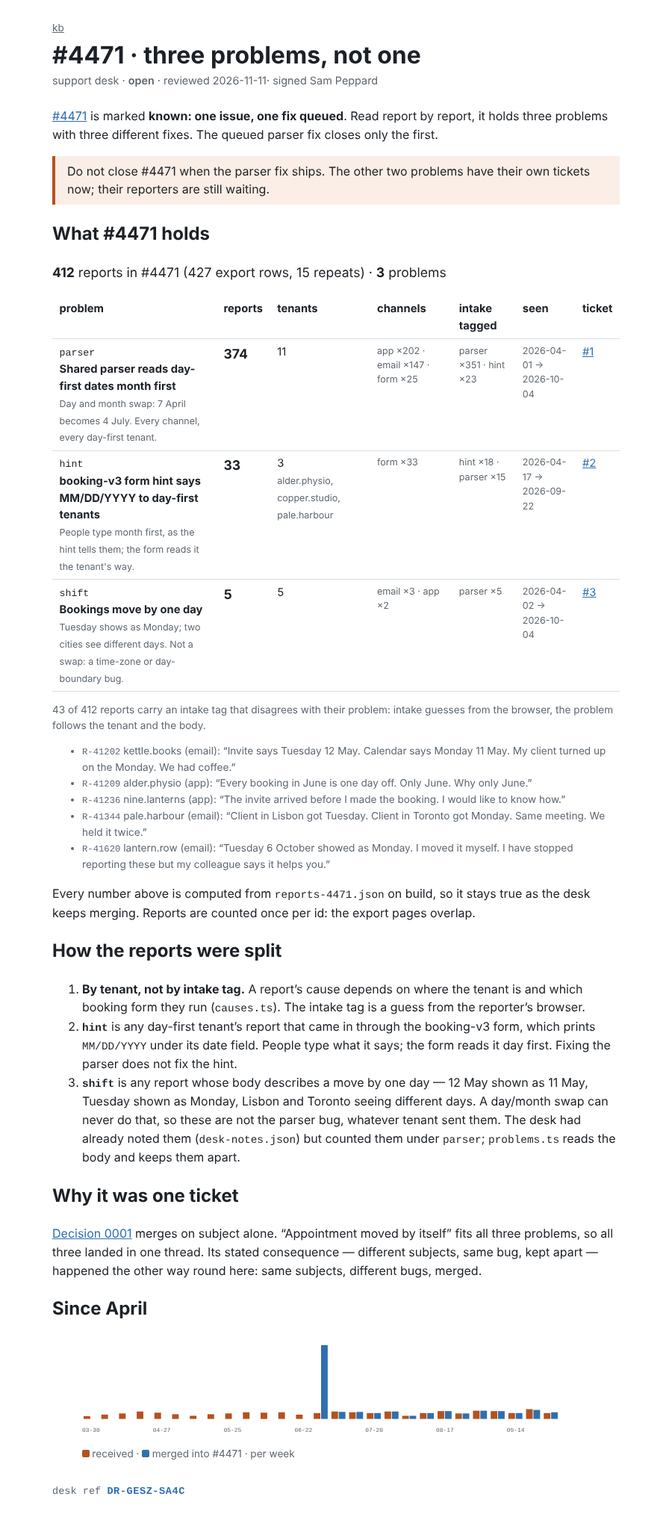
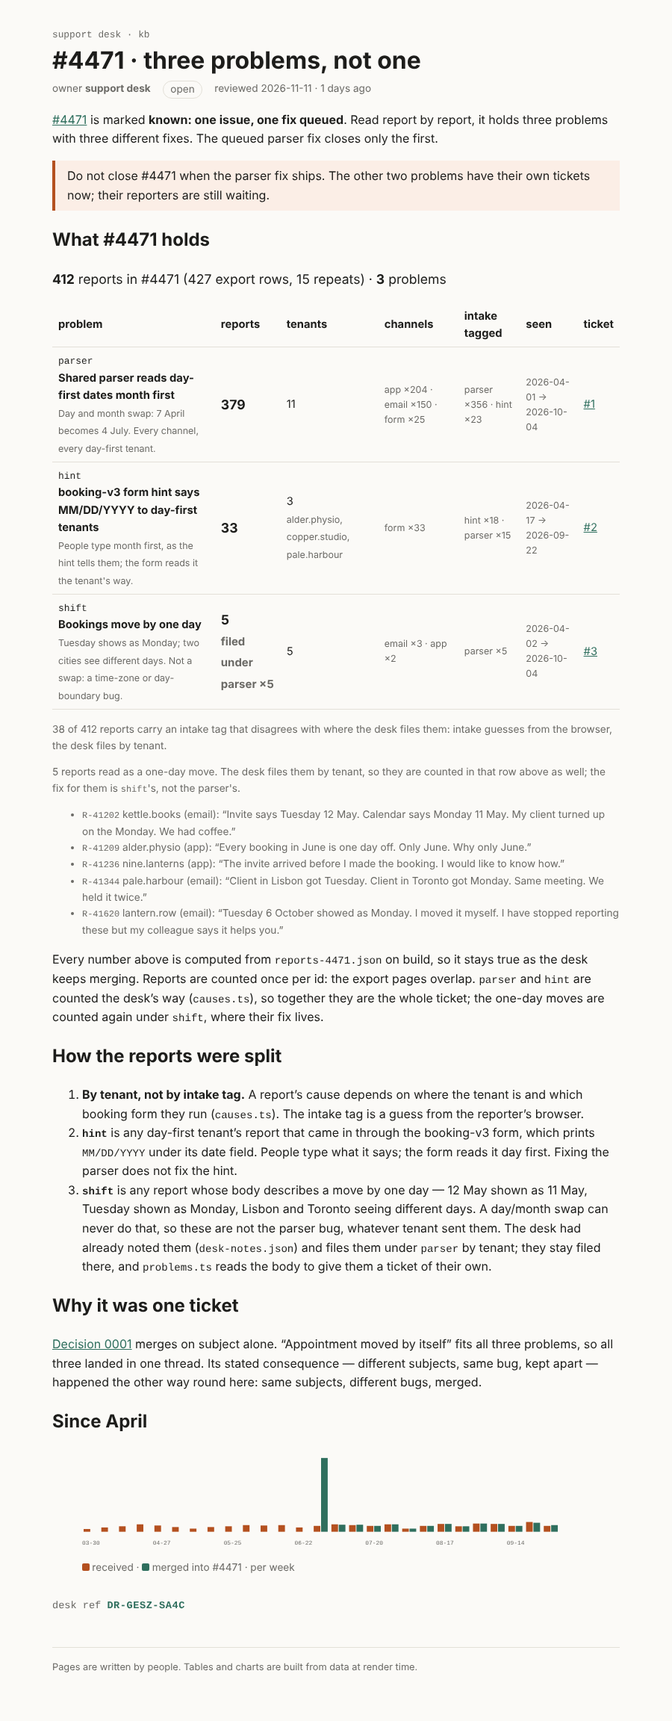
Add files via upload

diff --git a/rendered/4471-what-it-holds.html b/rendered/4471-what-it-holds.html
@@ -1,54 +1,54 @@
 <!doctype html>
 <html lang="en">
-  <head><meta charset="utf-8" /><meta name="viewport" content="width=device-width, initial-scale=1" /><link href="../../../_app/immutable/entry/start.Cax04n6M.js" rel="modulepreload">
-		<link href="../../../_app/immutable/chunks/BXBl7C9G.js" rel="modulepreload">
-		<link href="../../../_app/immutable/chunks/D-Mk7Rcr.js" rel="modulepreload">
-		<link href="../../../_app/immutable/chunks/Bq5J313x.js" rel="modulepreload">
-		<link href="../../../_app/immutable/entry/app.s2e9j_Yr.js" rel="modulepreload">
-		<link href="../../../_app/immutable/chunks/CEV0fquU.js" rel="modulepreload">
-		<link href="../../../_app/immutable/chunks/BctF-SZc.js" rel="modulepreload">
-		<link href="../../../_app/immutable/chunks/D25I4bZb.js" rel="modulepreload">
-		<link href="../../../_app/immutable/chunks/DBFz88Tc.js" rel="modulepreload">
-		<link href="../../../_app/immutable/nodes/0.DcNmDUh-.js" rel="modulepreload">
-		<link href="../../../_app/immutable/chunks/DJu7_s0o.js" rel="modulepreload">
-		<link href="../../../_app/immutable/nodes/6.DSKkRnIV.js" rel="modulepreload">
-		<link href="../../../_app/immutable/chunks/CStkB27h.js" rel="modulepreload">
-		<link href="../../../_app/immutable/chunks/BZH7fcWG.js" rel="modulepreload">
-		<link href="../../../_app/immutable/chunks/8pk1IeRg.js" rel="modulepreload">
-		<link href="../../../_app/immutable/chunks/GB5NitcB.js" rel="modulepreload">
-		<link href="../../../_app/immutable/chunks/C9Poonos.js" rel="modulepreload">
-		<link href="../../../_app/immutable/chunks/CoNGLaqP.js" rel="modulepreload">
-		<!--e2jw2j--><!----><title>#4471 · three problems, not one · kb</title>
-		<link href="../../../_app/immutable/assets/runbook.BaH3PreZ.css" rel="stylesheet">
+  <head><meta charset="utf-8" /><meta name="viewport" content="width=device-width, initial-scale=1" /><link href="../../../_app/immutable/entry/start.C192oWlJ.js" rel="modulepreload">
+		<link href="../../../_app/immutable/chunks/nBu19ThE.js" rel="modulepreload">
+		<link href="../../../_app/immutable/chunks/BxrCcN8S.js" rel="modulepreload">
+		<link href="../../../_app/immutable/chunks/DjVWBcQw.js" rel="modulepreload">
+		<link href="../../../_app/immutable/entry/app.CmhSSG-Q.js" rel="modulepreload">
+		<link href="../../../_app/immutable/chunks/C1HcjfNf.js" rel="modulepreload">
+		<link href="../../../_app/immutable/chunks/2FJHcgdF.js" rel="modulepreload">
+		<link href="../../../_app/immutable/chunks/D0yAg43P.js" rel="modulepreload">
+		<link href="../../../_app/immutable/chunks/B-33DdCK.js" rel="modulepreload">
+		<link href="../../../_app/immutable/nodes/0.DZfr0cuq.js" rel="modulepreload">
+		<link href="../../../_app/immutable/chunks/B0-UQb8m.js" rel="modulepreload">
+		<link href="../../../_app/immutable/nodes/6.DxXm_liZ.js" rel="modulepreload">
+		<link href="../../../_app/immutable/chunks/ypK-M0R9.js" rel="modulepreload">
+		<link href="../../../_app/immutable/chunks/sXBaN47e.js" rel="modulepreload">
+		<link href="../../../_app/immutable/chunks/C9XHIrrk.js" rel="modulepreload">
+		<link href="../../../_app/immutable/chunks/BZg23eEk.js" rel="modulepreload">
+		<link href="../../../_app/immutable/chunks/BOtbrOVq.js" rel="modulepreload">
+		<link href="../../../_app/immutable/chunks/BCMCTd07.js" rel="modulepreload">
+		<!--e2jw2j--><!----><title>#4471 · three problems, not one · support kb</title>
+		<link href="../../../_app/immutable/assets/runbook.BhhgOc_n.css" rel="stylesheet">
 		<link href="../../../_app/immutable/assets/Callout.yLErXQDM.css" rel="stylesheet">
 		<link href="../../../_app/immutable/assets/QueueTimeline.GlFZa8QJ.css" rel="stylesheet">
 		<link href="../../../_app/immutable/assets/6.CLi-qPBJ.css" rel="stylesheet"></head>
-  <body data-sveltekit-preload-data="hover"><div style="display: contents"><!--[--><!--[0--><!--[--><!--[--><main class="svelte-e2jw2j"><nav class="svelte-e2jw2j"><a href="/kb/" class="svelte-e2jw2j">kb</a></nav> <header><h1 class="svelte-e2jw2j">#4471 · three problems, not one</h1> <p class="meta svelte-e2jw2j">support desk · <span class="status svelte-e2jw2j">open</span> · reviewed 2026-11-11<!--[0-->· signed Sam Peppard<!--]--></p></header> <p><a href="/kb/incidents/4471">#4471</a> is marked <strong>known: one issue, one fix queued</strong>. Read report by report,
+  <body data-sveltekit-preload-data="hover"><div style="display: contents"><!--[--><!--[0--><!--[--><!--[--><div class="kb svelte-e2jw2j"><header><a class="crumb svelte-e2jw2j" href="/kb">support desk · kb</a> <h1 class="svelte-e2jw2j">#4471 · three problems, not one</h1> <p class="meta svelte-e2jw2j"><span>owner <b>support desk</b></span> <span class="status open svelte-e2jw2j">open</span> <span class="svelte-e2jw2j">reviewed 2026-11-11 · 1 days ago</span></p></header> <!--[-1--><!--]--> <main><p><a href="/kb/incidents/4471">#4471</a> is marked <strong>known: one issue, one fix queued</strong>. Read report by report,
 it holds three problems with three different fixes. The queued parser fix closes only the first.</p> <aside class="warn svelte-17bri61"><!---->Do not close #4471 when the parser fix ships. The other two problems have their own tickets now;
-their reporters are still waiting.<!----></aside><!----> <h2>What #4471 holds</h2> <p class="sum svelte-1op6c6"><strong>412</strong> reports in #4471 (427 export rows, 15 repeats) · <strong>3</strong> problems</p> <table><thead><tr><th>problem</th><th>reports</th><th>tenants</th><th>channels</th><th>intake tagged</th><th>seen</th><th>ticket</th></tr></thead><tbody><!--[--><tr><td><code>parser</code><br/><b>Shared parser reads day-first dates month first</b><br/><span class="what svelte-1op6c6">Day and month swap: 7 April becomes 4 July. Every channel, every day-first tenant.</span></td><td class="n svelte-1op6c6">374</td><td>11<br/><span class="what svelte-1op6c6"></span></td><td class="what svelte-1op6c6">app ×202 · email ×147 · form ×25</td><td class="what svelte-1op6c6">parser ×351 · hint ×23</td><td class="what svelte-1op6c6">2026-04-01 → 2026-10-04</td><td><!--[0--><a href="https://github.com/sampeppard/mega-s01e03-kb/issues/1">#1</a><!--]--></td></tr><tr><td><code>hint</code><br/><b>booking-v3 form hint says MM/DD/YYYY to day-first tenants</b><br/><span class="what svelte-1op6c6">People type month first, as the hint tells them; the form reads it the tenant's way.</span></td><td class="n svelte-1op6c6">33</td><td>3<br/><span class="what svelte-1op6c6">alder.physio, copper.studio, pale.harbour</span></td><td class="what svelte-1op6c6">form ×33</td><td class="what svelte-1op6c6">hint ×18 · parser ×15</td><td class="what svelte-1op6c6">2026-04-17 → 2026-09-22</td><td><!--[0--><a href="https://github.com/sampeppard/mega-s01e03-kb/issues/2">#2</a><!--]--></td></tr><tr><td><code>shift</code><br/><b>Bookings move by one day</b><br/><span class="what svelte-1op6c6">Tuesday shows as Monday; two cities see different days. Not a swap: a time-zone or day-boundary bug.</span></td><td class="n svelte-1op6c6">5</td><td>5<br/><span class="what svelte-1op6c6"></span></td><td class="what svelte-1op6c6">email ×3 · app ×2</td><td class="what svelte-1op6c6">parser ×5</td><td class="what svelte-1op6c6">2026-04-02 → 2026-10-04</td><td><!--[0--><a href="https://github.com/sampeppard/mega-s01e03-kb/issues/3">#3</a><!--]--></td></tr><!--]--></tbody></table> <p class="note svelte-1op6c6">43 of 412 reports carry an intake tag that disagrees with their problem: intake guesses from the browser, the problem follows the tenant and the body.</p> <!--[--><ul class="ids svelte-1op6c6"><!--[--><li><code>R-41202</code> kettle.books (email): “Invite says Tuesday 12 May. Calendar says Monday 11 May. My client turned up on the Monday. We had coffee.”</li><li><code>R-41209</code> alder.physio (app): “Every booking in June is one day off. Only June. Why only June.”</li><li><code>R-41236</code> nine.lanterns (app): “The invite arrived before I made the booking. I would like to know how.”</li><li><code>R-41344</code> pale.harbour (email): “Client in Lisbon got Tuesday. Client in Toronto got Monday. Same meeting. We held it twice.”</li><li><code>R-41620</code> lantern.row (email): “Tuesday 6 October showed as Monday. I moved it myself. I have stopped reporting these but my colleague says it helps you.”</li><!--]--></ul><!--]--><!----> <p>Every number above is computed from <code>reports-4471.json</code> on build, so it stays true as the desk
-keeps merging. Reports are counted once per id: the export pages overlap.</p> <h2>How the reports were split</h2> <ol><li><strong>By tenant, not by intake tag.</strong> A report’s cause depends on where the tenant is and which
+their reporters are still waiting.<!----></aside><!----> <h2>What #4471 holds</h2> <p class="sum svelte-1op6c6"><strong>412</strong> reports in #4471 (427 export rows, 15 repeats) · <strong>3</strong> problems</p> <table><thead><tr><th>problem</th><th>reports</th><th>tenants</th><th>channels</th><th>intake tagged</th><th>seen</th><th>ticket</th></tr></thead><tbody><!--[--><tr><td><code>parser</code><br/><b>Shared parser reads day-first dates month first</b><br/><span class="what svelte-1op6c6">Day and month swap: 7 April becomes 4 July. Every channel, every day-first tenant.</span></td><td class="n svelte-1op6c6">379<!--[-1--><!--]--></td><td>11<br/><span class="what svelte-1op6c6"></span></td><td class="what svelte-1op6c6">app ×204 · email ×150 · form ×25</td><td class="what svelte-1op6c6">parser ×356 · hint ×23</td><td class="what svelte-1op6c6">2026-04-01 → 2026-10-04</td><td><!--[0--><a href="https://github.com/sampeppard/mega-s01e03-kb/issues/1">#1</a><!--]--></td></tr><tr><td><code>hint</code><br/><b>booking-v3 form hint says MM/DD/YYYY to day-first tenants</b><br/><span class="what svelte-1op6c6">People type month first, as the hint tells them; the form reads it the tenant's way.</span></td><td class="n svelte-1op6c6">33<!--[-1--><!--]--></td><td>3<br/><span class="what svelte-1op6c6">alder.physio, copper.studio, pale.harbour</span></td><td class="what svelte-1op6c6">form ×33</td><td class="what svelte-1op6c6">hint ×18 · parser ×15</td><td class="what svelte-1op6c6">2026-04-17 → 2026-09-22</td><td><!--[0--><a href="https://github.com/sampeppard/mega-s01e03-kb/issues/2">#2</a><!--]--></td></tr><tr><td><code>shift</code><br/><b>Bookings move by one day</b><br/><span class="what svelte-1op6c6">Tuesday shows as Monday; two cities see different days. Not a swap: a time-zone or day-boundary bug.</span></td><td class="n svelte-1op6c6">5<!--[0--><br/><span class="what svelte-1op6c6">filed under parser ×5</span><!--]--></td><td>5<br/><span class="what svelte-1op6c6"></span></td><td class="what svelte-1op6c6">email ×3 · app ×2</td><td class="what svelte-1op6c6">parser ×5</td><td class="what svelte-1op6c6">2026-04-02 → 2026-10-04</td><td><!--[0--><a href="https://github.com/sampeppard/mega-s01e03-kb/issues/3">#3</a><!--]--></td></tr><!--]--></tbody></table> <p class="note svelte-1op6c6">38 of 412 reports carry an intake tag that disagrees with where the desk files them: intake guesses from the browser, the desk files by tenant.</p> <!--[--><p class="note svelte-1op6c6">5 reports read as a one-day move. The desk files them by tenant, so they are counted in that row above as well; the fix for them is <code>shift</code>'s, not the parser's.</p> <ul class="ids svelte-1op6c6"><!--[--><li><code>R-41202</code> kettle.books (email): “Invite says Tuesday 12 May. Calendar says Monday 11 May. My client turned up on the Monday. We had coffee.”</li><li><code>R-41209</code> alder.physio (app): “Every booking in June is one day off. Only June. Why only June.”</li><li><code>R-41236</code> nine.lanterns (app): “The invite arrived before I made the booking. I would like to know how.”</li><li><code>R-41344</code> pale.harbour (email): “Client in Lisbon got Tuesday. Client in Toronto got Monday. Same meeting. We held it twice.”</li><li><code>R-41620</code> lantern.row (email): “Tuesday 6 October showed as Monday. I moved it myself. I have stopped reporting these but my colleague says it helps you.”</li><!--]--></ul><!--]--><!----> <p>Every number above is computed from <code>reports-4471.json</code> on build, so it stays true as the desk
+keeps merging. Reports are counted once per id: the export pages overlap. <code>parser</code> and <code>hint</code> are counted the desk’s way (<code>causes.ts</code>), so together they are the whole ticket; the one-day moves
+are counted again under <code>shift</code>, where their fix lives.</p> <h2>How the reports were split</h2> <ol><li><strong>By tenant, not by intake tag.</strong> A report’s cause depends on where the tenant is and which
 booking form they run (<code>causes.ts</code>). The intake tag is a guess from the reporter’s browser.</li> <li><strong><code>hint</code></strong> is any day-first tenant’s report that came in through the booking-v3 form, which
 prints <code>MM/DD/YYYY</code> under its date field. People type what it says; the form reads it day first.
 Fixing the parser does not fix the hint.</li> <li><strong><code>shift</code></strong> is any report whose body describes a move by one day — 12 May shown as 11 May,
 Tuesday shown as Monday, Lisbon and Toronto seeing different days. A day/month swap can never do
 that, so these are not the parser bug, whatever tenant sent them. The desk had already noted
-them (<code>desk-notes.json</code>) but counted them under <code>parser</code>; <code>problems.ts</code> reads the body and
-keeps them apart.</li></ol> <h2>Why it was one ticket</h2> <p><a href="/kb/decisions/0001-dedupe-by-subject">Decision 0001</a> merges on subject alone. “Appointment moved
+them (<code>desk-notes.json</code>) and files them under <code>parser</code> by tenant; they stay filed there, and <code>problems.ts</code> reads the body to give them a ticket of their own.</li></ol> <h2>Why it was one ticket</h2> <p><a href="/kb/decisions/0001-dedupe-by-subject">Decision 0001</a> merges on subject alone. “Appointment moved
 by itself” fits all three problems, so all three landed in one thread. Its stated consequence —
 different subjects, same bug, kept apart — happened the other way round here: same subjects,
-different bugs, merged.</p> <h2>Since April</h2> <figure><svg viewBox="0 0 648 140" role="img" aria-label="reports received and merged into #4471, per week" class="svelte-18a6qal"><!--[--><rect class="in svelte-18a6qal" x="2" y="106.29629629629629" width="9" height="3.7037037037037033"></rect><rect class="merged svelte-18a6qal" x="12" y="110" width="9" height="0"></rect><!--[0--><text x="12" y="128" class="svelte-18a6qal">03-30</text><!--]--><rect class="in svelte-18a6qal" x="26" y="104.17989417989418" width="9" height="5.82010582010582"></rect><rect class="merged svelte-18a6qal" x="36" y="110" width="9" height="0"></rect><!--[-1--><!--]--><rect class="in svelte-18a6qal" x="50" y="102.5925925925926" width="9" height="7.4074074074074066"></rect><rect class="merged svelte-18a6qal" x="60" y="110" width="9" height="0"></rect><!--[-1--><!--]--><rect class="in svelte-18a6qal" x="74" y="99.94708994708995" width="9" height="10.052910052910052"></rect><rect class="merged svelte-18a6qal" x="84" y="110" width="9" height="0"></rect><!--[-1--><!--]--><rect class="in svelte-18a6qal" x="98" y="101.53439153439153" width="9" height="8.465608465608465"></rect><rect class="merged svelte-18a6qal" x="108" y="110" width="9" height="0"></rect><!--[0--><text x="108" y="128" class="svelte-18a6qal">04-27</text><!--]--><rect class="in svelte-18a6qal" x="122" y="103.65079365079364" width="9" height="6.349206349206349"></rect><rect class="merged svelte-18a6qal" x="132" y="110" width="9" height="0"></rect><!--[-1--><!--]--><rect class="in svelte-18a6qal" x="146" y="105.76719576719577" width="9" height="4.232804232804233"></rect><rect class="merged svelte-18a6qal" x="156" y="110" width="9" height="0"></rect><!--[-1--><!--]--><rect class="in svelte-18a6qal" x="170" y="103.65079365079364" width="9" height="6.349206349206349"></rect><rect class="merged svelte-18a6qal" x="180" y="110" width="9" height="0"></rect><!--[-1--><!--]--><rect class="in svelte-18a6qal" x="194" y="102.5925925925926" width="9" height="7.4074074074074066"></rect><rect class="merged svelte-18a6qal" x="204" y="110" width="9" height="0"></rect><!--[0--><text x="204" y="128" class="svelte-18a6qal">05-25</text><!--]--><rect class="in svelte-18a6qal" x="218" y="101.00529100529101" width="9" height="8.994708994708994"></rect><rect class="merged svelte-18a6qal" x="228" y="110" width="9" height="0"></rect><!--[-1--><!--]--><rect class="in svelte-18a6qal" x="242" y="101.53439153439153" width="9" height="8.465608465608465"></rect><rect class="merged svelte-18a6qal" x="252" y="110" width="9" height="0"></rect><!--[-1--><!--]--><rect class="in svelte-18a6qal" x="266" y="101.00529100529101" width="9" height="8.994708994708994"></rect><rect class="merged svelte-18a6qal" x="276" y="110" width="9" height="0"></rect><!--[-1--><!--]--><rect class="in svelte-18a6qal" x="290" y="104.17989417989418" width="9" height="5.82010582010582"></rect><rect class="merged svelte-18a6qal" x="300" y="110" width="9" height="0"></rect><!--[0--><text x="300" y="128" class="svelte-18a6qal">06-22</text><!--]--><rect class="in svelte-18a6qal" x="314" y="102.06349206349206" width="9" height="7.936507936507936"></rect><rect class="merged svelte-18a6qal" x="324" y="10" width="9" height="100"></rect><!--[-1--><!--]--><rect class="in svelte-18a6qal" x="338" y="99.94708994708995" width="9" height="10.052910052910052"></rect><rect class="merged svelte-18a6qal" x="348" y="100.47619047619048" width="9" height="9.523809523809524"></rect><!--[-1--><!--]--><rect class="in svelte-18a6qal" x="362" y="101.00529100529101" width="9" height="8.994708994708994"></rect><rect class="merged svelte-18a6qal" x="372" y="100.47619047619048" width="9" height="9.523809523809524"></rect><!--[-1--><!--]--><rect class="in svelte-18a6qal" x="386" y="102.06349206349206" width="9" height="7.936507936507936"></rect><rect class="merged svelte-18a6qal" x="396" y="102.06349206349206" width="9" height="7.936507936507936"></rect><!--[0--><text x="396" y="128" class="svelte-18a6qal">07-20</text><!--]--><rect class="in svelte-18a6qal" x="410" y="99.94708994708995" width="9" height="10.052910052910052"></rect><rect class="merged svelte-18a6qal" x="420" y="99.94708994708995" width="9" height="10.052910052910052"></rect><!--[-1--><!--]--><rect class="in svelte-18a6qal" x="434" y="105.76719576719577" width="9" height="4.232804232804233"></rect><rect class="merged svelte-18a6qal" x="444" y="105.76719576719577" width="9" height="4.232804232804233"></rect><!--[-1--><!--]--><rect class="in svelte-18a6qal" x="458" y="102.06349206349206" width="9" height="7.936507936507936"></rect><rect class="merged svelte-18a6qal" x="468" y="102.06349206349206" width="9" height="7.936507936507936"></rect><!--[-1--><!--]--><rect class="in svelte-18a6qal" x="482" y="99.41798941798942" width="9" height="10.582010582010582"></rect><rect class="merged svelte-18a6qal" x="492" y="99.41798941798942" width="9" height="10.582010582010582"></rect><!--[0--><text x="492" y="128" class="svelte-18a6qal">08-17</text><!--]--><rect class="in svelte-18a6qal" x="506" y="102.5925925925926" width="9" height="7.4074074074074066"></rect><rect class="merged svelte-18a6qal" x="516" y="102.5925925925926" width="9" height="7.4074074074074066"></rect><!--[-1--><!--]--><rect class="in svelte-18a6qal" x="530" y="98.88888888888889" width="9" height="11.11111111111111"></rect><rect class="merged svelte-18a6qal" x="540" y="98.88888888888889" width="9" height="11.11111111111111"></rect><!--[-1--><!--]--><rect class="in svelte-18a6qal" x="554" y="99.41798941798942" width="9" height="10.582010582010582"></rect><rect class="merged svelte-18a6qal" x="564" y="99.41798941798942" width="9" height="10.582010582010582"></rect><!--[-1--><!--]--><rect class="in svelte-18a6qal" x="578" y="102.06349206349206" width="9" height="7.936507936507936"></rect><rect class="merged svelte-18a6qal" x="588" y="102.06349206349206" width="9" height="7.936507936507936"></rect><!--[0--><text x="588" y="128" class="svelte-18a6qal">09-14</text><!--]--><rect class="in svelte-18a6qal" x="602" y="96.77248677248677" width="9" height="13.227513227513226"></rect><rect class="merged svelte-18a6qal" x="612" y="97.83068783068784" width="9" height="12.16931216931217"></rect><!--[-1--><!--]--><rect class="in svelte-18a6qal" x="626" y="102.06349206349206" width="9" height="7.936507936507936"></rect><rect class="merged svelte-18a6qal" x="636" y="101.00529100529101" width="9" height="8.994708994708994"></rect><!--[-1--><!--]--><!--]--></svg> <figcaption class="svelte-18a6qal"><span class="key in svelte-18a6qal"></span> received · <span class="key merged svelte-18a6qal"></span> merged into #4471 · per week</figcaption></figure><!----> <!--[0--><p class="stamp svelte-1280m42">desk ref <b class="svelte-1280m42">DR-GESZ-SA4C</b></p><!--]--><!----><!----></main><!--]--><!----><!--]--><!--]--> <!--[-1--><!--]--><!--]-->
+different bugs, merged.</p> <h2>Since April</h2> <figure><svg viewBox="0 0 648 140" role="img" aria-label="reports received and merged into #4471, per week" class="svelte-18a6qal"><!--[--><rect class="in svelte-18a6qal" x="2" y="106.29629629629629" width="9" height="3.7037037037037033"></rect><rect class="merged svelte-18a6qal" x="12" y="110" width="9" height="0"></rect><!--[0--><text x="12" y="128" class="svelte-18a6qal">03-30</text><!--]--><rect class="in svelte-18a6qal" x="26" y="104.17989417989418" width="9" height="5.82010582010582"></rect><rect class="merged svelte-18a6qal" x="36" y="110" width="9" height="0"></rect><!--[-1--><!--]--><rect class="in svelte-18a6qal" x="50" y="102.5925925925926" width="9" height="7.4074074074074066"></rect><rect class="merged svelte-18a6qal" x="60" y="110" width="9" height="0"></rect><!--[-1--><!--]--><rect class="in svelte-18a6qal" x="74" y="99.94708994708995" width="9" height="10.052910052910052"></rect><rect class="merged svelte-18a6qal" x="84" y="110" width="9" height="0"></rect><!--[-1--><!--]--><rect class="in svelte-18a6qal" x="98" y="101.53439153439153" width="9" height="8.465608465608465"></rect><rect class="merged svelte-18a6qal" x="108" y="110" width="9" height="0"></rect><!--[0--><text x="108" y="128" class="svelte-18a6qal">04-27</text><!--]--><rect class="in svelte-18a6qal" x="122" y="103.65079365079364" width="9" height="6.349206349206349"></rect><rect class="merged svelte-18a6qal" x="132" y="110" width="9" height="0"></rect><!--[-1--><!--]--><rect class="in svelte-18a6qal" x="146" y="105.76719576719577" width="9" height="4.232804232804233"></rect><rect class="merged svelte-18a6qal" x="156" y="110" width="9" height="0"></rect><!--[-1--><!--]--><rect class="in svelte-18a6qal" x="170" y="103.65079365079364" width="9" height="6.349206349206349"></rect><rect class="merged svelte-18a6qal" x="180" y="110" width="9" height="0"></rect><!--[-1--><!--]--><rect class="in svelte-18a6qal" x="194" y="102.5925925925926" width="9" height="7.4074074074074066"></rect><rect class="merged svelte-18a6qal" x="204" y="110" width="9" height="0"></rect><!--[0--><text x="204" y="128" class="svelte-18a6qal">05-25</text><!--]--><rect class="in svelte-18a6qal" x="218" y="101.00529100529101" width="9" height="8.994708994708994"></rect><rect class="merged svelte-18a6qal" x="228" y="110" width="9" height="0"></rect><!--[-1--><!--]--><rect class="in svelte-18a6qal" x="242" y="101.53439153439153" width="9" height="8.465608465608465"></rect><rect class="merged svelte-18a6qal" x="252" y="110" width="9" height="0"></rect><!--[-1--><!--]--><rect class="in svelte-18a6qal" x="266" y="101.00529100529101" width="9" height="8.994708994708994"></rect><rect class="merged svelte-18a6qal" x="276" y="110" width="9" height="0"></rect><!--[-1--><!--]--><rect class="in svelte-18a6qal" x="290" y="104.17989417989418" width="9" height="5.82010582010582"></rect><rect class="merged svelte-18a6qal" x="300" y="110" width="9" height="0"></rect><!--[0--><text x="300" y="128" class="svelte-18a6qal">06-22</text><!--]--><rect class="in svelte-18a6qal" x="314" y="102.06349206349206" width="9" height="7.936507936507936"></rect><rect class="merged svelte-18a6qal" x="324" y="10" width="9" height="100"></rect><!--[-1--><!--]--><rect class="in svelte-18a6qal" x="338" y="99.94708994708995" width="9" height="10.052910052910052"></rect><rect class="merged svelte-18a6qal" x="348" y="100.47619047619048" width="9" height="9.523809523809524"></rect><!--[-1--><!--]--><rect class="in svelte-18a6qal" x="362" y="101.00529100529101" width="9" height="8.994708994708994"></rect><rect class="merged svelte-18a6qal" x="372" y="100.47619047619048" width="9" height="9.523809523809524"></rect><!--[-1--><!--]--><rect class="in svelte-18a6qal" x="386" y="102.06349206349206" width="9" height="7.936507936507936"></rect><rect class="merged svelte-18a6qal" x="396" y="102.06349206349206" width="9" height="7.936507936507936"></rect><!--[0--><text x="396" y="128" class="svelte-18a6qal">07-20</text><!--]--><rect class="in svelte-18a6qal" x="410" y="99.94708994708995" width="9" height="10.052910052910052"></rect><rect class="merged svelte-18a6qal" x="420" y="99.94708994708995" width="9" height="10.052910052910052"></rect><!--[-1--><!--]--><rect class="in svelte-18a6qal" x="434" y="105.76719576719577" width="9" height="4.232804232804233"></rect><rect class="merged svelte-18a6qal" x="444" y="105.76719576719577" width="9" height="4.232804232804233"></rect><!--[-1--><!--]--><rect class="in svelte-18a6qal" x="458" y="102.06349206349206" width="9" height="7.936507936507936"></rect><rect class="merged svelte-18a6qal" x="468" y="102.06349206349206" width="9" height="7.936507936507936"></rect><!--[-1--><!--]--><rect class="in svelte-18a6qal" x="482" y="99.41798941798942" width="9" height="10.582010582010582"></rect><rect class="merged svelte-18a6qal" x="492" y="99.41798941798942" width="9" height="10.582010582010582"></rect><!--[0--><text x="492" y="128" class="svelte-18a6qal">08-17</text><!--]--><rect class="in svelte-18a6qal" x="506" y="102.5925925925926" width="9" height="7.4074074074074066"></rect><rect class="merged svelte-18a6qal" x="516" y="102.5925925925926" width="9" height="7.4074074074074066"></rect><!--[-1--><!--]--><rect class="in svelte-18a6qal" x="530" y="98.88888888888889" width="9" height="11.11111111111111"></rect><rect class="merged svelte-18a6qal" x="540" y="98.88888888888889" width="9" height="11.11111111111111"></rect><!--[-1--><!--]--><rect class="in svelte-18a6qal" x="554" y="99.41798941798942" width="9" height="10.582010582010582"></rect><rect class="merged svelte-18a6qal" x="564" y="99.41798941798942" width="9" height="10.582010582010582"></rect><!--[-1--><!--]--><rect class="in svelte-18a6qal" x="578" y="102.06349206349206" width="9" height="7.936507936507936"></rect><rect class="merged svelte-18a6qal" x="588" y="102.06349206349206" width="9" height="7.936507936507936"></rect><!--[0--><text x="588" y="128" class="svelte-18a6qal">09-14</text><!--]--><rect class="in svelte-18a6qal" x="602" y="96.77248677248677" width="9" height="13.227513227513226"></rect><rect class="merged svelte-18a6qal" x="612" y="97.83068783068784" width="9" height="12.16931216931217"></rect><!--[-1--><!--]--><rect class="in svelte-18a6qal" x="626" y="102.06349206349206" width="9" height="7.936507936507936"></rect><rect class="merged svelte-18a6qal" x="636" y="101.00529100529101" width="9" height="8.994708994708994"></rect><!--[-1--><!--]--><!--]--></svg> <figcaption class="svelte-18a6qal"><span class="key in svelte-18a6qal"></span> received · <span class="key merged svelte-18a6qal"></span> merged into #4471 · per week</figcaption></figure><!----> <!--[0--><p class="stamp svelte-1280m42">desk ref <b class="svelte-1280m42">DR-GESZ-SA4C</b></p><!--]--><!----><!----></main> <footer class="svelte-e2jw2j">Pages are written by people. Tables and charts are built from data at render time.</footer></div><!--]--><!----><!--]--><!--]--> <!--[-1--><!--]--><!--]-->
 			
 			<script>
 				{
-					__sveltekit_11hd32x = {
+					__sveltekit_308j1v = {
 						base: new URL("../../..", location).pathname.slice(0, -1)
 					};
 
 					const element = document.currentScript.parentElement;
 
 					Promise.all([
-						import("../../../_app/immutable/entry/start.Cax04n6M.js"),
-						import("../../../_app/immutable/entry/app.s2e9j_Yr.js")
+						import("../../../_app/immutable/entry/start.C192oWlJ.js"),
+						import("../../../_app/immutable/entry/app.CmhSSG-Q.js")
 					]).then(([kit, app]) => {
 						kit.start(app, element, {
 							node_ids: [0, 6],
